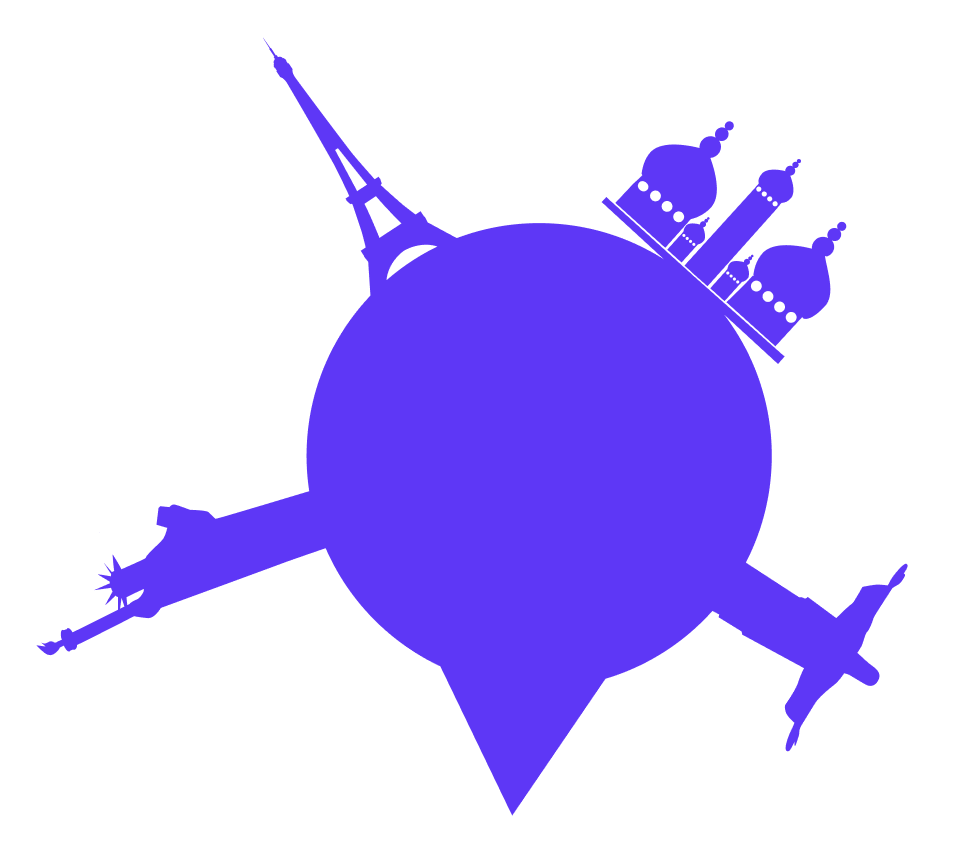
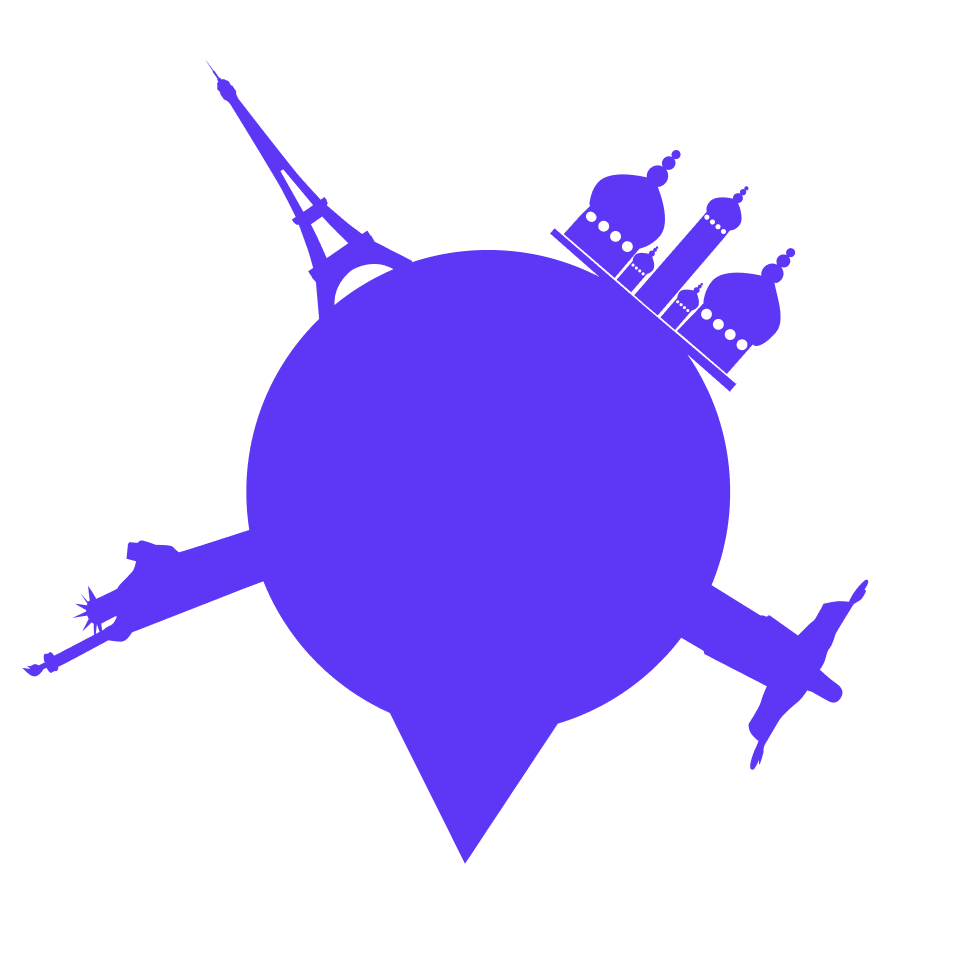
update

Changed region(s): [[0.0304, 0.0618, 0.9414, 0.9572], [0.3644, 0.7102, 0.4251, 0.772], [0.2733, 0.0618, 0.3037, 0.0926]]

diff --git a/RenduFinal/Finalstyle.css b/RenduFinal/Finalstyle.css
@@ -33,6 +33,10 @@ body {
   background-color: #FFE3FC;
 }
 
+a {
+  text-decoration: none;
+  font-family: Nunito Bold;
+}
 .container {
   display: grid;
   grid-template-rows: 1fr 2fr; /* Divise en deux sections */
@@ -48,6 +52,35 @@ body {
   background-repeat: no-repeat;
   object-fit: cover;
   position: absolute;
+}
+
+.container1 {
+  display: grid;
+  grid-template-rows: 1fr 2fr; /* Divise en deux sections */
+  grid-template-columns: 1fr;
+  height: 100%;
+  width: 100%;
+  max-width: 400px;
+  position: relative;
+  overflow: hidden;
+  position: absolute;
+  z-index: 1;
+  background-image:url(./IMG/Background1.png);
+  background-repeat: no-repeat;
+  object-fit: cover;
+  position: absolute;
+}
+
+.logo {
+  position: fixed;
+  top: 10px; /* Espacement par rapport au haut de l'écran */
+  right: 10px; /* Espacement par rapport à la droite de l'écran */
+  z-index: 4; /* Assure que le logo soit au-dessus de tout autre contenu */
+}
+
+.logo img {
+  width: 150px; /* Ajuste la taille du logo */
+  height: auto; /* Conserve les proportions */
 }
 
 /*.background {
@@ -77,7 +110,7 @@ body {
 }
 
 .bg-clouds {
-  width: 210%;
+  width: 220%;
   position: absolute;
   animation: moveClouds 15s linear infinite;
 }
@@ -101,11 +134,13 @@ body {
   align-items: flex-start; /* Align items to the top */
   align-items: center;
   bottom: 0;
+  transform: translateY(36%);
 }
 
 .bg-earth {
-  width: 200%;
+  width: 350%;
   animation: rotateEarth 10s linear infinite;
+  transform-origin: center center;
 }
 
 @keyframes rotateEarth {
@@ -119,7 +154,7 @@ body {
 
 /* Content Section (Over Earth) */
 .content {
-  position: absolute;
+  position: fixed;
   bottom: 15%; /* Place le contenu au-dessus de la terre */
   width: 100%;
   display: grid;
@@ -128,7 +163,6 @@ body {
   justify-items: center;
   z-index: 3; /* Au-dessus de la terre et des nuages */
   background-color: transparent;
-  padding: 0 20px;
 }
 
 h1 {
@@ -153,12 +187,12 @@ p {
   margin-top: 20px;
   padding: 10px 20px;
   background-color: white;
-  color: #6242db;
+  color: #5E37F6;
   border: none;
-  border-radius: 20px;
-  font-size: 1rem;
+  border-radius: 30px;
+  font-size: 1.5rem;
   cursor: pointer;
-  box-shadow: 0 4px 6px rgba(0, 0, 0, 0.1);
+  box-shadow: 0 4px 6px rgba(0, 0, 0, 0.047);
   transition: transform 0.2s ease, background-color 0.2s ease;
 }
 
@@ -166,4 +200,114 @@ p {
   transform: scale(1.05);
   background-color: #f2ebff;
 }
-  
+
+.cta-button:hover a {
+  color : #5E37F6;
+}
+.ticketContainer{
+  display: flex;
+  flex-direction: column;
+  align-items: center;
+  justify-content: center;
+  z-index: 3; 
+  height: 100vh;
+}
+.ticket{
+  animation: bouncingCard 0.6s ease-out infinite alternate;
+  background-color: white;
+  border-radius: 12px;
+  max-width: 80%;
+}
+.ticketShadow{
+  animation: bouncingShadow 0.6s ease-out infinite alternate;
+  margin-top: 4px;
+  width: 95%;
+  height: 12px;
+  border-radius: 50%;
+  background-color: rgba(93, 55, 246, 0.243);
+  filter: blur(12px);
+}
+
+/* Ticket Content */
+.ticketTitle{
+  font-size: 1.5rem;
+  font-weight: 700;
+  padding: 12px 16px 4px;
+  color: #5E37F6;
+}
+hr{
+  width: 90%;
+  border: 1px solid #efefef;
+}
+.ticketDetail{
+  font-size: 1.1rem;
+  font-weight: 500;
+  padding: 4px 16px;
+  color: #0e0928;
+}
+.ticketSubDetail{
+  display: flex;
+  justify-content: space-between;
+  font-size: 1rem;
+  padding: 12px 16px;
+}
+.ticketSubDetail .code{
+  margin-right: 24px;
+}
+.cta-button1 {
+  margin-top: 10px;
+  padding: 10px 20px;
+  background-color: #5E37F6;
+  border: none;
+  border-radius: 30px;
+  font-size: 1.3rem;
+  cursor: pointer;
+  box-shadow: 0 4px 6px rgba(93, 55, 246, 0.243);
+  transition: transform 0.2s ease, background-color 0.2s ease;
+}
+
+.cta-button1 a {
+  color : white;
+}
+
+.cta-button1:hover {
+  transform: scale(1.05);
+  background-color: white;
+}
+
+.cta-button:hover a {
+  color : #5E37F6;
+}
+/* Ticket Ripper */
+.ticketRip{
+  display: flex;
+  justify-content: space-between;
+  align-items: center;
+}
+.circleLeft{
+  width: 12px;
+  height: 24px;
+  background-color: #FFE3FC;
+  border-radius: 0 12px 12px 0;
+}
+.ripLine{
+  width: 100%;
+  border-top: 3px solid #FFE3FC;
+  border-top-style: dashed ;
+}
+.circleRight{
+  width: 12px;
+  height: 24px;
+  background-color: #FFE3FC;
+  border-radius: 12px 0 0 12px;
+}
+
+/* Ticket Bouncing Animation */
+@keyframes bouncingCard {
+  from { transform: translateY(0);}
+  to {transform: translateY(-18px);}
+}
+@keyframes bouncingShadow {
+  from { transform: translateY(0px);}
+  to {transform: translateY(4px);}
+}

diff --git a/RenduFinal/Onboarding.html b/RenduFinal/Onboarding.html
@@ -1,0 +1,41 @@
+<!DOCTYPE html>
+<html lang="en">
+<head>
+    <meta charset="UTF-8">
+    <meta name="viewport" content="width=device-width, initial-scale=1.0">
+    <title>Prêts à embarquer ?</title>
+</head>
+<body>
+    <link rel="stylesheet" href="./Finalstyle.css">
+</head>
+<body>
+    <div class="container1">
+        <div class="logo">
+          <a href="Finalhome.html"><img src="./IMG/LogoScanFly.svg" alt="ScanFly Logo"></a>
+        </div>
+    <div class="ticketContainer">
+    <div class="ticket">
+        <div class="ticketTitle">Embarquez !</div>
+        <hr>
+        <div class="ticketDetail">
+          <div>Bienvenue sur ScanFly !</div><br>
+          <div>Embarquez et découvrez les <b>monuments emblématique</b>s de chaque continent en scannant les images qui correspondent au cours de l'exposition.</div><br>
+          <div>Attention au décollage !</div><br>
+          <div style="text-align: center;">
+            <button class="cta-button1"><a href="Onboarding.html">Commencer</a></button>
+          </div> <br>
+        </div>
+        <div class="ticketRip">
+          <div class="circleLeft"></div>
+          <div class="ripLine"></div>
+          <div class="circleRight"></div>
+        </div>
+            <div class="ticketSubDetail">
+          <div class="code">LO-2314XXX</div>
+          <div class="date"> 10 déc 2024</div>
+        </div>
+      </div>
+      <div class="ticketShadow"></div></div>
+  </div>  
+</body>
+</html>

diff --git a/RenduFinal/Finalhome.html b/RenduFinal/Finalhome.html
@@ -10,20 +10,22 @@
 </head>
 <body>
   <div class="container">
-    <!-- Clouds Animation -->
+    <div class="logo">
+      <a href="Finalhome.html"><img src="./IMG/LogoScanFly.svg" alt="ScanFly Logo"></a>
+    </div>
+  
     <div class="clouds">
       <img src="./IMG/Clouds.png" alt="Élément graphique Nuages" class="bg-clouds">
     </div>
     
-    <!-- Main Content -->
     <div class="content">
       <h1>Voyager</h1>
       <p>N'a jamais été aussi</p>
       <p class="highlight">Simple.</p>
-      <button class="cta-button">Commencer</button>
+      <button class="cta-button"><a href="Onboarding.html">Commencer</a></button>
     </div>
     
-    <!-- Earth Animation -->
+ 
     <div class="earth">
       <img src="./IMG/Earth.png" alt="Élément graphique Terre" class="bg-earth">
     </div>
